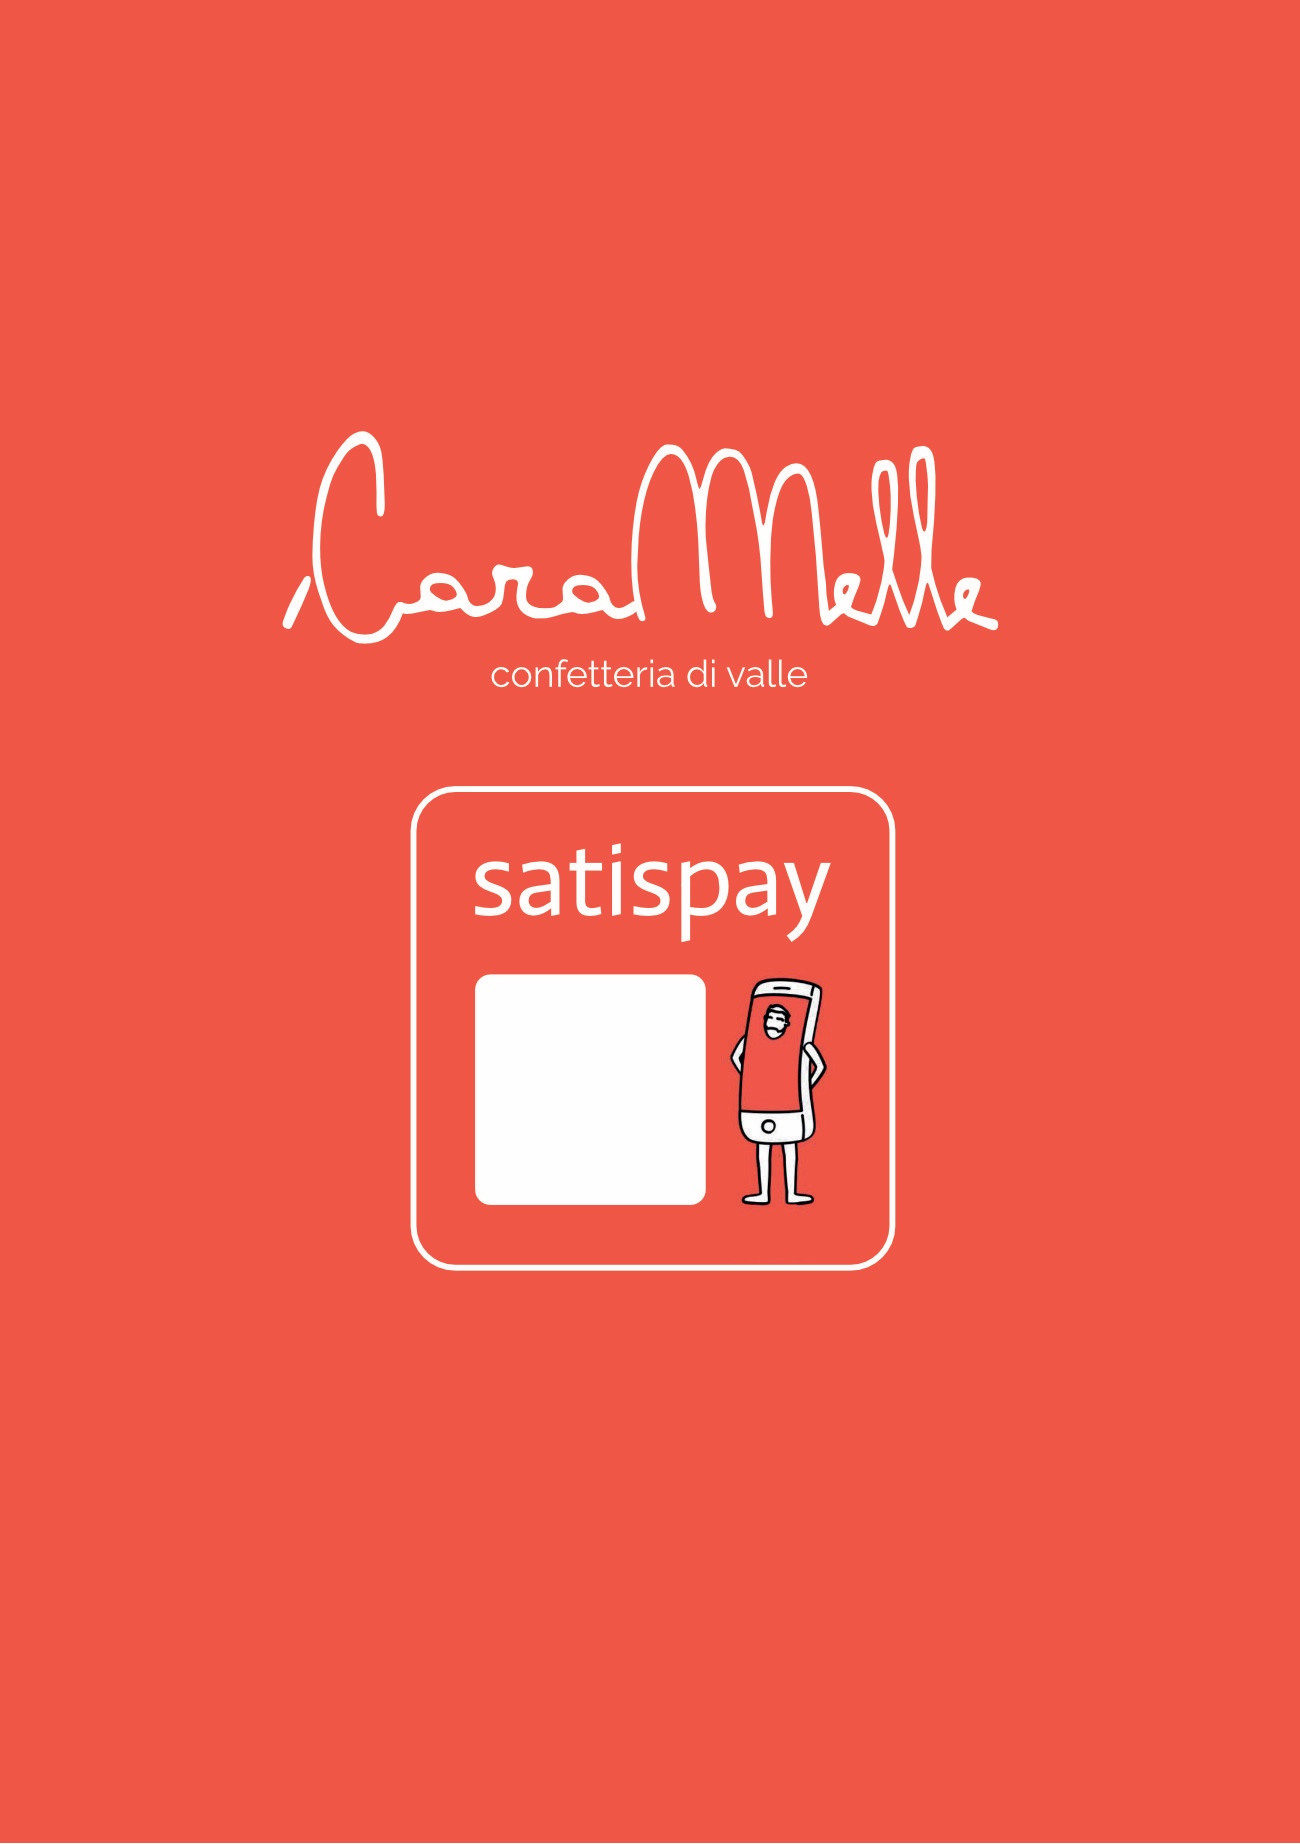
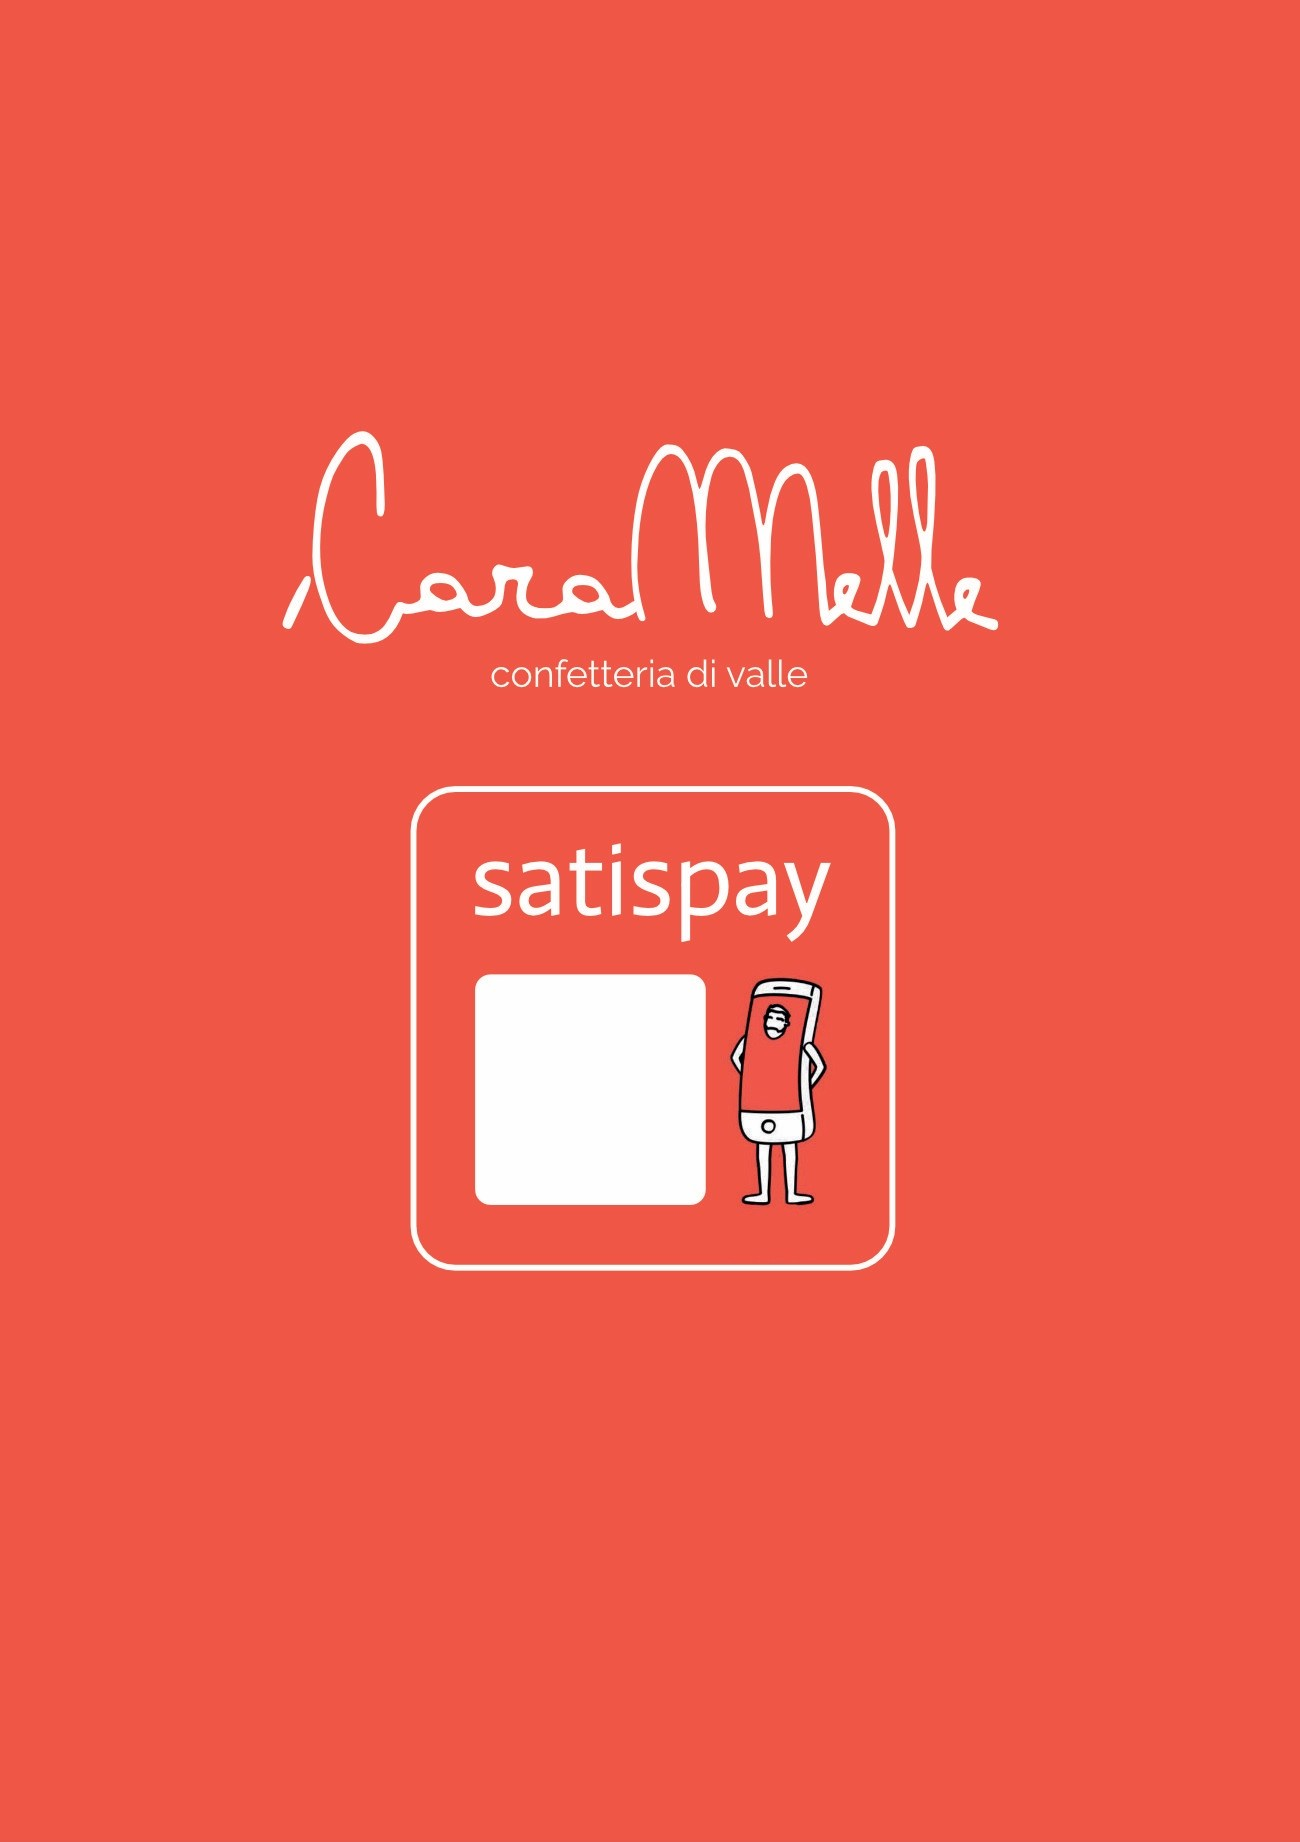
Add files via upload

diff --git a/registro_vendite/cliente.html b/registro_vendite/cliente.html
@@ -78,11 +78,23 @@ body {
    (quadrato bianco di 230x230 su una locandina di 1300x1844). Se un giorno
    si ridisegna la locandina spostando il quadrato, sono queste le righe da
    rifare — e nient'altro. */
-#qr { background: #EF5646; }   /* lo stesso rosso della locandina: le fasce ai lati spariscono */
+#qr {
+  background: #EF5646;   /* lo stesso rosso della locandina: le fasce ai lati spariscono */
+  padding: 0;            /* la locandina arriva ai bordi: quello che avanza e' gia' rosso */
+}
 
+/* Il riquadro che tiene insieme locandina e QR.
+   `flex: 0 0 auto` non e' un dettaglio: senza, i Safari vecchi lo
+   stringono piu' corto dell'immagine che contiene — la regola che glielo
+   impedisce (min-height automatica) e' arrivata dopo di loro. E siccome il
+   QR e' posizionato in percentuale SU QUESTO riquadro, un riquadro piu'
+   corto lo faceva finire troppo in alto e troppo piccolo, scoprendo il
+   quadrato bianco della locandina li' sotto. Due quadrati bianchi invece
+   di uno: e' successo davvero, su un iPad con iOS 9. */
 .foglio {
   position: relative;
-  display: inline-block;
+  display: block;
+  flex: 0 0 auto;
   line-height: 0;
 }
 .foglio img {
@@ -576,9 +588,9 @@ var QR = (function () {
    dimensione la locandina venga mostrata.
    Si rifanno solo se si ridisegna la locandina spostando il quadrato.     */
 var QR_SINISTRA = 36.615;   // % dal bordo sinistro dell'immagine
-var QR_ALTO     = 52.874;   // % dal bordo alto
+var QR_ALTO     = 52.932;   // % dal bordo alto
 var QR_LARGO    = 17.615;   // % della larghezza
-var QR_ALTEZZA  = 12.419;   // % dell'altezza
+var QR_ALTEZZA  = 12.432;   // % dell'altezza
 
 /* Quanto il QR deborda dal quadrato bianco. 1 = lo riempie esatto, come
    nel disegno. Alzandolo il codice diventa piu' grande e si porta dietro
